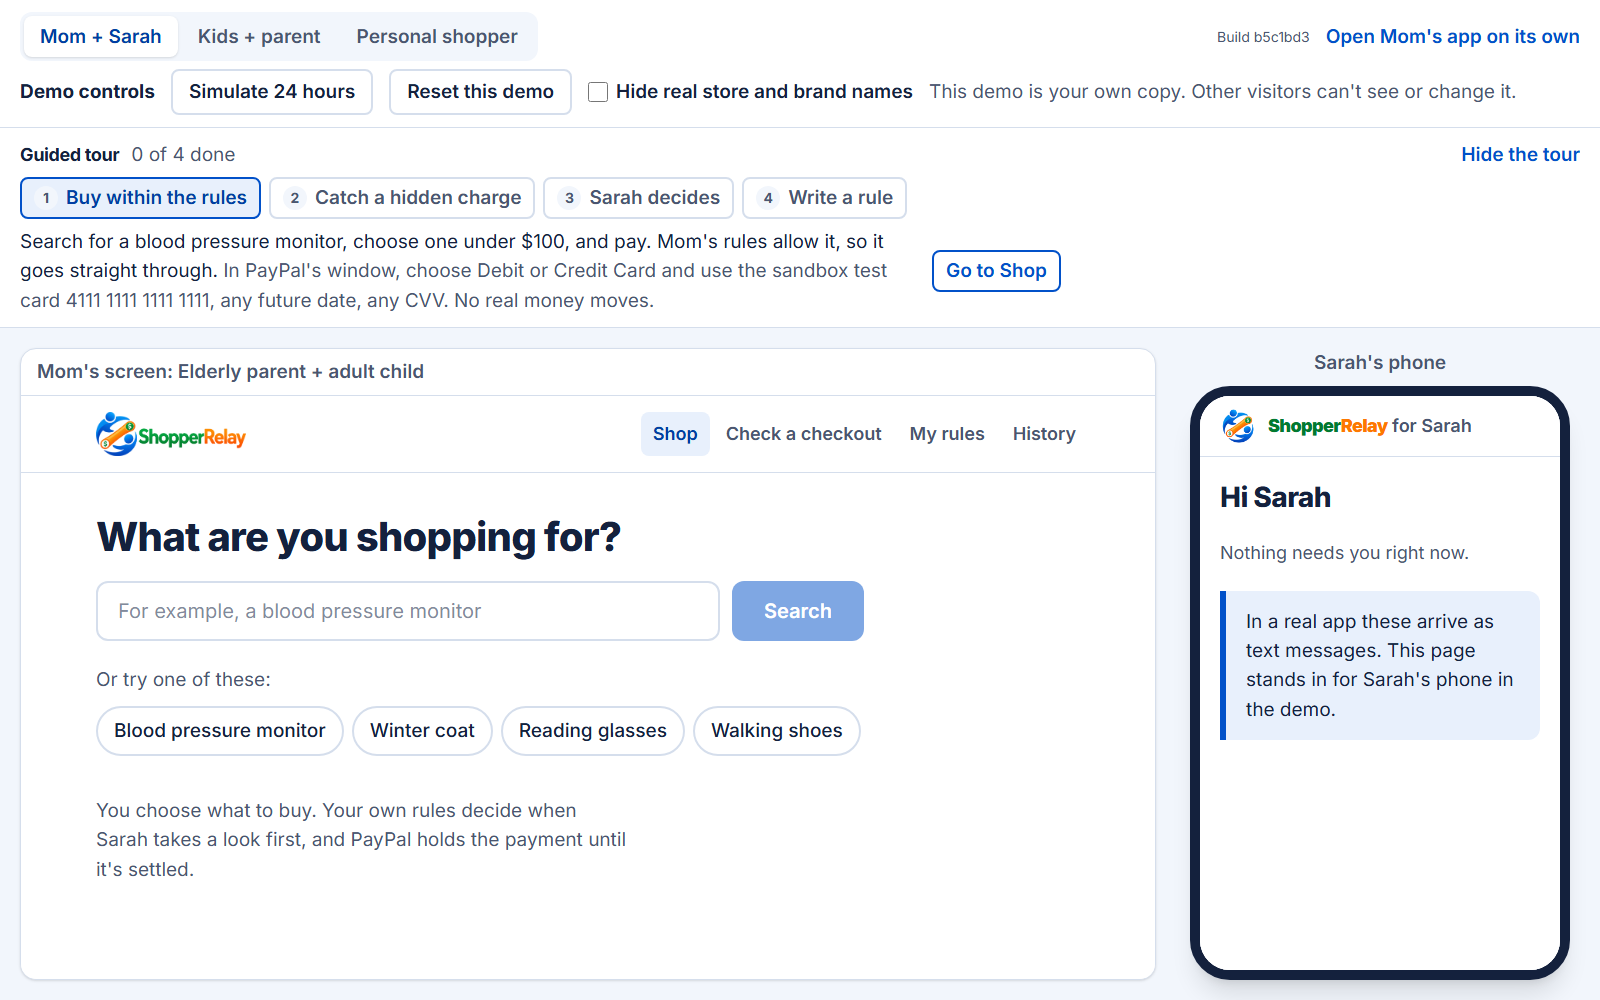
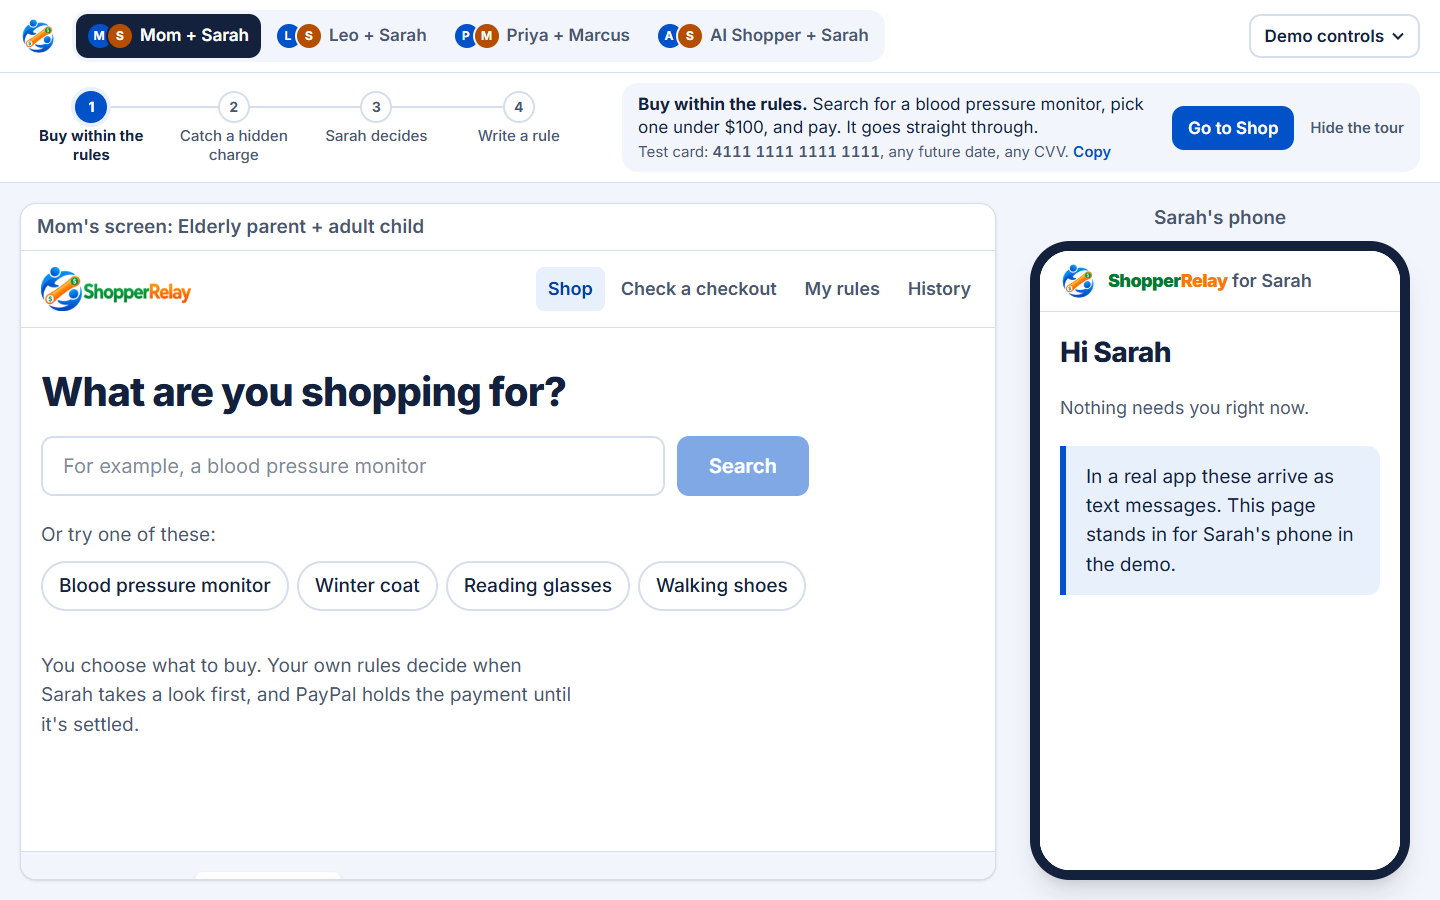
Redesign the top of the demo page
The tabs now name the people in each setup, and the guided tour is a connected
track with one clear next action. Demo controls move into a menu, which gives
about 135px back to the two screens on a desktop.

Also adds a copy button for the test card, and stops the shopper's screen
running off the edge on phones.

Changed region(s): [[0.0, 0.0, 1.0, 0.9956], [0.5625, 0.4044, 0.6562, 0.4356]]

diff --git a/src/app/demo/page.tsx b/src/app/demo/page.tsx
@@ -1,10 +1,12 @@
 "use client";
 
+import Image from "next/image";
 import Link from "next/link";
 import { useEffect, useRef, useState } from "react";
 import { DemoTour } from "@/components/DemoTour";
 import { api } from "@/lib/client/api";
 import { useSession } from "@/lib/client/useSession";
+import symbol from "../../../public/brand/shopperrelay-symbol.png";
 
 // Split screen for the video and for judges: the shopper's app on the left,
 // the reviewer's phone on the right, and demo-only controls above.
@@ -54,81 +56,117 @@ export default function DemoPage() {
 
   const shopper = session?.household.shopperName ?? "Shopper";
   const reviewer = session?.household.reviewerName ?? "Reviewer";
-  const control = "rounded-lg border-2 border-line px-4 py-1.5 font-semibold hover:border-ink-soft disabled:opacity-50";
+  const control = "w-full rounded-xl border-2 border-line px-4 py-2 text-left hover:border-ink-soft disabled:opacity-50";
   // Holds wait 24 hours for the reviewer; requests stay open 7 days.
   const days = session?.relationship.flow === "request" ? 7 : 1;
   const span = days === 1 ? "24 hours" : `${days} days`;
 
   return (
     <div className="flex h-dvh flex-col bg-mist">
-      <div className="border-b border-line bg-white px-5 py-3">
-        <div className="flex flex-wrap items-center gap-x-4 gap-y-2">
-          <div role="tablist" aria-label="Which relationship" className="flex flex-wrap gap-1 rounded-xl bg-mist p-1">
-            {session?.relationships.map((r) => (
-              <button
-                key={r.id}
-                role="tab"
-                aria-selected={r.id === session.relationship.id}
-                disabled={busy}
-                onClick={() => {
-                  clearSavedSearch();
-                  void run(`Now showing: ${r.title}.`, { action: "mode", mode: r.id });
-                }}
-                className={`rounded-lg px-4 py-1.5 font-semibold ${r.id === session.relationship.id ? "bg-white text-relay-deep shadow-sm" : "text-ink-soft hover:text-ink"}`}
-              >
-                {r.tab}
-              </button>
-            ))}
-          </div>
-          {session && <span className="ml-auto text-sm text-ink-soft">Build {session.build}</span>}
-          <Link href="/shop" className="font-semibold text-relay underline-offset-4 hover:underline">
-            Open {shopper}&apos;s app on its own
+      <header className="border-b border-line bg-white">
+        <h1 className="sr-only">ShopperRelay demo</h1>
+        <div className="flex flex-wrap items-center gap-x-4 gap-y-2 px-5 py-2.5">
+          <Link href="/" aria-label="ShopperRelay home" className="shrink-0 rounded-full">
+            <Image src={symbol} alt="" className="size-9" priority />
           </Link>
-        </div>
-        <div className="mt-2 flex flex-wrap items-center gap-x-4 gap-y-2">
-          <p className="font-bold">Demo controls</p>
-          <button type="button" disabled={busy} onClick={() => run(`Simulated ${span} passing.`, { action: "advance", hours: days * 24 })} className={control}>
-            Simulate {span}
-          </button>
           <button
             type="button"
-            disabled={busy}
-            onClick={() => {
-              clearSavedSearch();
-              void run("Demo reset: default rules, no purchases.", { action: "reset" });
-            }}
-            className={control}
+            popoverTarget="demo-controls"
+            className="order-2 ml-auto flex min-h-11 items-center gap-2 rounded-xl border-2 border-line px-3.5 text-[1.0625rem] font-semibold whitespace-nowrap hover:border-ink-soft lg:order-3"
           >
-            Reset this demo
+            Demo controls
+            <svg aria-hidden viewBox="0 0 12 8" className="w-3 fill-none stroke-current stroke-2">
+              <path d="M1 1.5 6 6.5 11 1.5" />
+            </svg>
           </button>
-          <label className="flex items-center gap-2 font-semibold">
-            <input
-              type="checkbox"
-              className="size-5 accent-relay"
-              checked={hidden}
-              disabled={busy || !session}
-              onChange={(e) => {
-                clearSavedSearch();
-                void run(
-                  e.target.checked ? "Real store and brand names are hidden. Search again to see invented names." : "Real store and brand names are shown again.",
-                  { action: "hide_brands", on: e.target.checked },
-                );
-              }}
-            />
-            Hide real store and brand names
-          </label>
-          <span className="text-base text-ink-soft">This demo is your own copy. Other visitors can&apos;t see or change it.</span>
-          {status && (
-            <p className="text-base text-ink-soft" role="status">
-              {status}
-            </p>
-          )}
+          <div role="tablist" aria-label="Which relationship" className="order-3 grid w-full grid-cols-2 gap-1 rounded-2xl bg-mist p-1 lg:order-2 lg:flex lg:w-auto">
+            {session?.relationships.map((r) => {
+              const on = r.id === session.relationship.id;
+              const ring = on ? "ring-ink" : "ring-mist";
+              const [shopperName, reviewerName] = r.tab.split(" + ");
+              return (
+                <button
+                  key={r.id}
+                  role="tab"
+                  aria-selected={on}
+                  disabled={busy}
+                  onClick={() => {
+                    clearSavedSearch();
+                    void run(`Now showing: ${r.title}.`, { action: "mode", mode: r.id });
+                  }}
+                  className={`flex min-h-11 min-w-0 items-center gap-2 rounded-xl px-2 text-left text-[0.9375rem] leading-tight font-semibold transition-colors lg:px-3 lg:text-[1.0625rem] ${on ? "bg-ink text-white" : "text-ink-soft hover:bg-white hover:text-ink"}`}
+                >
+                  {/* Who's in it: blue is the person shopping, orange the person who takes a look, as everywhere else. */}
+                  <span aria-hidden className="flex shrink-0">
+                    <span className={`flex size-6 items-center justify-center rounded-full bg-relay pr-0.5 text-xs font-bold text-white ring-2 ${ring}`}>{shopperName[0]}</span>
+                    <span className={`relative -ml-1 flex size-6 items-center justify-center rounded-full bg-signal-text text-xs font-bold text-white ring-2 ${ring}`}>{reviewerName[0]}</span>
+                  </span>
+                  {r.tab}
+                </button>
+              );
+            })}
+          </div>
         </div>
-      </div>
+
+        <div id="demo-controls" popover="auto" className="top-16 right-5 bottom-auto left-auto m-0 w-[23rem] max-w-[calc(100vw-2.5rem)] rounded-2xl border border-line bg-white p-5 text-ink shadow-xl">
+          <div className="space-y-3">
+            <div className="flex items-center justify-between gap-3">
+              <h2 className="text-xl font-bold">Demo controls</h2>
+              <button type="button" popoverTarget="demo-controls" popoverTargetAction="hide" className="rounded-lg px-2 py-1 text-base font-semibold text-relay hover:bg-relay-wash">
+                Close
+              </button>
+            </div>
+            <button type="button" disabled={busy} onClick={() => run(`Simulated ${span} passing.`, { action: "advance", hours: days * 24 })} className={control}>
+              <span className="block font-semibold">Simulate {span}</span>
+              <span className="block text-base text-ink-soft">See what happens when nobody answers.</span>
+            </button>
+            <button
+              type="button"
+              disabled={busy}
+              onClick={() => {
+                clearSavedSearch();
+                void run("Demo reset: default rules, no purchases.", { action: "reset" });
+              }}
+              className={control}
+            >
+              <span className="block font-semibold">Reset this demo</span>
+              <span className="block text-base text-ink-soft">Default rules, no purchases.</span>
+            </button>
+            <label className="flex items-center gap-3 px-1 py-1 leading-snug font-semibold">
+              <input
+                type="checkbox"
+                className="size-5 shrink-0 accent-relay"
+                checked={hidden}
+                disabled={busy || !session}
+                onChange={(e) => {
+                  clearSavedSearch();
+                  void run(
+                    e.target.checked ? "Real store and brand names are hidden. Search again to see invented names." : "Real store and brand names are shown again.",
+                    { action: "hide_brands", on: e.target.checked },
+                  );
+                }}
+              />
+              Hide real store and brand names
+            </label>
+            {status && (
+              <p className="rounded-xl bg-relay-wash px-3 py-2 text-base" role="status">
+                {status}
+              </p>
+            )}
+            <div className="space-y-1 border-t border-line pt-3 text-base text-ink-soft">
+              <Link href="/shop" className="block font-semibold text-relay underline-offset-4 hover:underline">
+                Open {shopper}&apos;s app on its own
+              </Link>
+              <p>This demo is your own copy. Other visitors can&apos;t see or change it.</p>
+              {session && <p className="text-sm">Build {session.build}</p>}
+            </div>
+          </div>
+        </div>
+      </header>
 
       {session && <DemoTour key={session.relationship.id} session={session} onGo={(path) => left.current?.contentWindow?.location.replace(path)} />}
 
-      <div className="grid min-h-0 flex-1 gap-6 p-5 lg:grid-cols-[minmax(0,1fr)_400px]">
+      <div className="grid min-h-0 flex-1 grid-cols-[minmax(0,1fr)] gap-6 p-5 lg:grid-cols-[minmax(0,1fr)_400px]">
         <section aria-label={`${shopper}'s screen`} className="flex min-h-[28rem] flex-col overflow-hidden rounded-2xl border border-line bg-white shadow-sm">
           <p className="border-b border-line px-4 py-2 text-base font-semibold text-ink-soft">
             {shopper}&apos;s screen{session && `: ${session.relationship.title}`}

diff --git a/src/components/DemoTour.tsx b/src/components/DemoTour.tsx
@@ -63,8 +63,8 @@ export function DemoTour({ session, onGo }: { session: Session; onGo: (path: str
 
   if (hidden) {
     return (
-      <div className="border-b border-line bg-white px-5 py-2">
-        <button type="button" onClick={() => hide(false)} className="font-semibold text-relay underline-offset-4 hover:underline">
+      <div className="border-b border-line bg-white px-5 py-1.5">
+        <button type="button" onClick={() => hide(false)} className="text-base font-semibold text-relay underline-offset-4 hover:underline">
           Show the guided tour
         </button>
       </div>
@@ -78,59 +78,88 @@ export function DemoTour({ session, onGo }: { session: Session; onGo: (path: str
   const go = step?.go ?? (step?.goHunting && huntingId ? { path: `/purchase/${huntingId}`, label: "Open the purchase" } : null);
 
   return (
-    <section aria-labelledby="tour-title" className="border-b border-line bg-white px-5 py-3">
-      <div className="flex flex-wrap items-center gap-x-3 gap-y-2">
-        <h2 id="tour-title" className="text-lg font-bold">
-          Guided tour
-        </h2>
-        <p className="sr-only" role="status">
-          {steps.filter((s) => facts[s.fact]).length} of {steps.length} done
-        </p>
-        <ol className="flex flex-wrap gap-2">
+    <section aria-labelledby="tour-title" className="grid items-center gap-x-8 gap-y-2.5 border-b border-line bg-white px-5 py-2.5 xl:grid-cols-[minmax(0,5fr)_minmax(0,7fr)]">
+      <h2 id="tour-title" className="sr-only">
+        Guided tour
+      </h2>
+      <p className="sr-only" role="status">
+        {steps.filter((s) => facts[s.fact]).length} of {steps.length} done
+      </p>
+
+      {/* The same idea as the track on a purchase: stations on a line, handing on from one to the next. */}
+      <ol className="flex items-start">
         {steps.map((s, i) => {
           const done = facts[s.fact];
+          const on = i === current;
           return (
-            <li key={s.title}>
-              <button
-                type="button"
-                aria-current={i === current ? "step" : undefined}
-                onClick={() => setPicked(i)}
-                className={`flex items-center gap-2 rounded-lg border-2 px-3 py-1 text-base font-semibold ${
-                  i === current ? "border-relay bg-relay-wash text-relay-deep" : "border-line text-ink-soft hover:border-ink-soft"
-                }`}
-              >
-                <span aria-hidden className={`flex size-6 items-center justify-center rounded-full text-sm font-bold ${done ? "bg-ledger text-white" : "bg-mist text-ink-soft"}`}>
+            <li key={s.title} className="relative min-w-0 flex-1">
+              {i > 0 && <span aria-hidden className={`absolute top-4 right-1/2 h-0.5 w-full -translate-y-1/2 transition-colors ${facts[steps[i - 1].fact] ? "bg-ledger" : "bg-line"}`} />}
+              <button type="button" aria-current={on ? "step" : undefined} onClick={() => setPicked(i)} className="group relative z-10 flex w-full flex-col items-center gap-1 rounded-lg text-center">
+                <span
+                  aria-hidden
+                  className={`flex size-8 items-center justify-center rounded-full border-2 text-sm font-bold transition-colors ${
+                    done ? "border-ledger bg-ledger text-white" : on ? "border-relay bg-relay text-white" : "border-line bg-white text-ink-soft group-hover:border-ink-soft"
+                  } ${on ? `ring-4 ${done ? "ring-ledger-wash" : "ring-relay-wash"}` : ""}`}
+                >
                   {done ? "✓" : i + 1}
                 </span>
-                {s.title}
+                <span className={`hidden px-1 text-[0.9375rem] leading-tight sm:block ${on ? "font-bold text-ink" : "font-medium text-ink-soft group-hover:text-ink"}`}>{s.title}</span>
+                <span className="sr-only sm:hidden">{s.title}</span>
                 {done && <span className="sr-only"> (done)</span>}
               </button>
             </li>
           );
         })}
-        </ol>
-        <button type="button" onClick={() => hide(true)} className="ml-auto text-base font-semibold text-relay underline-offset-4 hover:underline">
+      </ol>
+
+      <div className="flex flex-wrap items-center gap-x-4 gap-y-2 rounded-2xl bg-mist px-4 py-2.5">
+        <div className="min-w-[16rem] flex-1 text-[1.0625rem] leading-snug">
+          {step ? (
+            <>
+              <p>
+                <strong className="font-bold">{step.title}.</strong> {waiting ? "Do the step before this one first. The button appears once Marcus has set a price." : step.how}
+              </p>
+              {step.pays && <TestCard />}
+            </>
+          ) : (
+            <p>
+              <strong className="font-bold">That&apos;s this setup done.</strong> Try another one with the tabs above, or use Reset this demo in Demo controls to run it again.
+            </p>
+          )}
+        </div>
+        {go && (
+          <button type="button" onClick={() => onGo(go.path)} className="min-h-11 rounded-xl bg-relay px-4 text-[1.0625rem] font-semibold whitespace-nowrap text-white hover:bg-relay-deep">
+            {go.label}
+          </button>
+        )}
+        <button type="button" onClick={() => hide(true)} className="text-[0.9375rem] font-semibold whitespace-nowrap text-ink-soft underline-offset-4 hover:text-ink hover:underline">
           Hide the tour
         </button>
       </div>
-
-      {step ? (
-        <div className="mt-2 flex flex-wrap items-center gap-x-4 gap-y-2">
-          <p className="text-base">{waiting ? "Do the step before this one first. The button appears once Marcus has set a price." : step.how}</p>
-          {step.pays && <p className="text-base text-ink-soft">Test card: 4111 1111 1111 1111, any future date, any CVV.</p>}
-          {go && (
-            <button
-              type="button"
-              onClick={() => onGo(go.path)}
-              className="rounded-lg border-2 border-relay px-3 py-1 text-base font-semibold text-relay hover:bg-relay hover:text-white"
-            >
-              {go.label}
-            </button>
-          )}
-        </div>
-      ) : (
-        <p className="mt-2 text-base">That&apos;s this setup done. Try another one with the tabs above, or use Reset this demo to run it again.</p>
-      )}
     </section>
+  );
+}
+
+const TEST_CARD = "4111 1111 1111 1111";
+
+/** PayPal's window wants a card typed in, so make it one tap to carry over. */
+function TestCard() {
+  const [copied, setCopied] = useState(false);
+  async function copy() {
+    try {
+      await navigator.clipboard.writeText(TEST_CARD.replaceAll(" ", ""));
+      setCopied(true);
+      setTimeout(() => setCopied(false), 2000);
+    } catch {
+      // clipboard unavailable: the number is right there to read
+    }
+  }
+  return (
+    <p className="mt-0.5 text-[0.9375rem] leading-snug text-ink-soft">
+      Test card: <span className="font-semibold tabular-nums">{TEST_CARD}</span>, any future date, any CVV.{" "}
+      <button type="button" onClick={() => void copy()} className="font-semibold text-relay underline-offset-4 hover:underline">
+        {copied ? "Copied" : "Copy"}
+      </button>
+    </p>
   );
 }

diff --git a/src/config/relationships.ts b/src/config/relationships.ts
@@ -71,7 +71,7 @@ export const RELATIONSHIPS: Record<RelationshipId, Relationship> = {
   },
   parent_child: {
     id: "parent_child",
-    tab: "Kids + parent",
+    tab: "Leo + Sarah",
     title: "Kids + parents",
     summary: "Leo finds things and asks. Sarah approves and pays, or says no, and video games and tech go to Marcus. Weekly and monthly budgets keep it in check.",
     controlNote: "The parent controls spending and payment. Leo never needs a parent's PayPal login.",
@@ -93,7 +93,7 @@ export const RELATIONSHIPS: Record<RelationshipId, Relationship> = {
   },
   personal_shopper: {
     id: "personal_shopper",
-    tab: "Personal shopper",
+    tab: "Priya + Marcus",
     title: "Personal shopper + customer",
     summary: "Priya finds things Marcus will like. Marcus approves and pays, or lets Priya buy one exact item once, at a price Marcus sets.",
     controlNote: "The customer makes every buying decision. A one-time authorization is for one product, once.",
@@ -115,7 +115,7 @@ export const RELATIONSHIPS: Record<RelationshipId, Relationship> = {
   },
   ai_shopper: {
     id: "ai_shopper",
-    tab: "AI Shopper",
+    tab: "AI Shopper + Sarah",
     title: "AI shopper + owner",
     summary: "Give the AI a job. Within Sarah's rules it buys with Sarah's saved PayPal, and anything else goes to Sarah first.",
     controlNote: "The owner writes the rules. Code checks them on every listing, and the AI can't buy outside them.",
